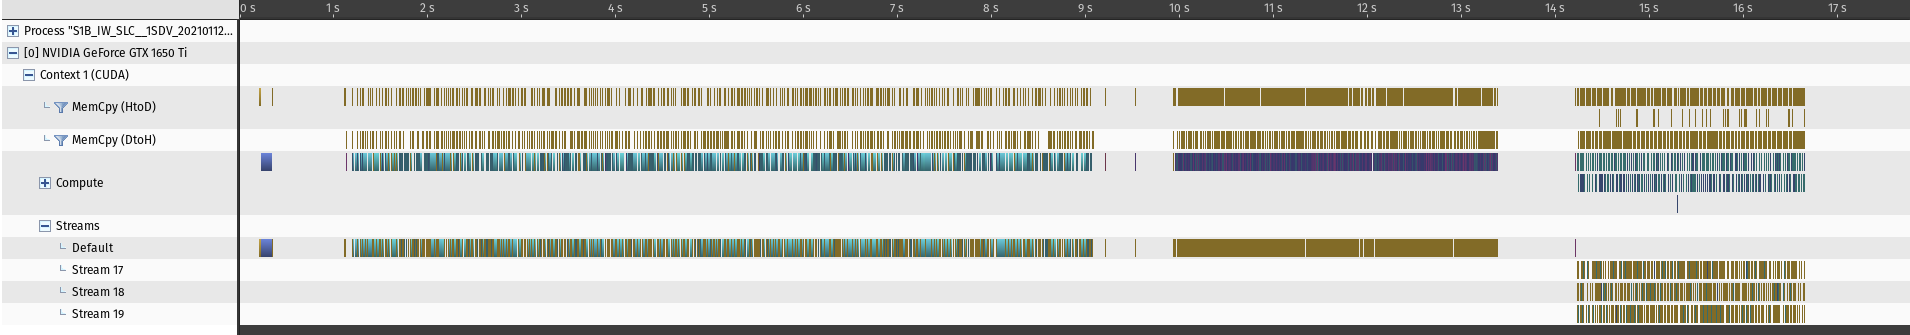
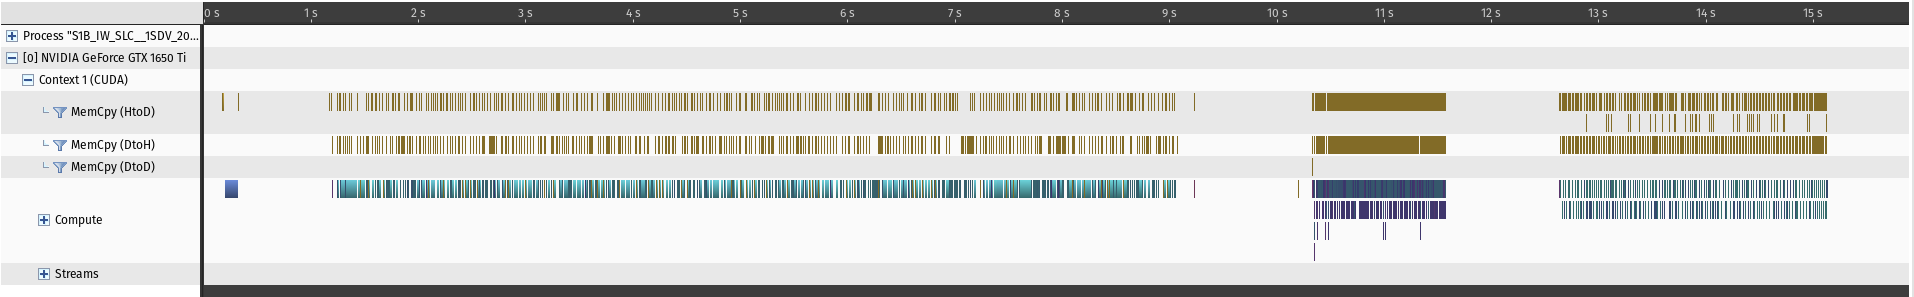
meow-55 Version 0.7 release
* Updated PERFORMANCE.md and coh_nvvp.png with latest development result
* Fix segfault on help message and/or fast argument error.

diff --git a/app/src/main.cc b/app/src/main.cc
@@ -45,10 +45,9 @@ void PrintHelp(const std::string& options_help) {
 
 int main(int argc, const char* argv[]) {
     std::string help_string{};
+    std::thread cuda_warmup;
     int alg_execute_status{};
     try {
-        std::thread cuda_warmup([](){cudaFree(nullptr);}); //init cuda with a cudaFree so others don't have to wait.
-        cuda_warmup.detach();
         alus::common::log::Initialize();
 #ifdef NDEBUG
         alus::common::log::SetLevel(alus::common::log::Level::INFO);
@@ -62,6 +61,9 @@ int main(int argc, const char* argv[]) {
             PrintHelp(help_string);
             return 0;
         }
+
+        // init cuda with a cudaFree so others don't have to wait.
+        cuda_warmup = std::thread([]() { cudaFree(nullptr); });
 
         const auto& alg_to_run = options.GetSelectedAlgorithm();
         LOGI << "Algorithm to run: " << alg_to_run;
@@ -81,7 +83,7 @@ int main(int argc, const char* argv[]) {
         const auto& merged_parameters =
             alus::app::AlgorithmParameters::MergeAndWarn(file_conf_parameters, command_line_parameters, warnings);
 
-        if(!warnings.empty()){
+        if (!warnings.empty()) {
             LOGW << warnings;
         }
         if (merged_parameters.count(alg_to_run)) {
@@ -116,18 +118,18 @@ int main(int argc, const char* argv[]) {
     } catch (const po::error& e) {
         LOGE << e.what();
         PrintHelp(help_string);
-        return 1;  // TODO: Create constants for exit codes.
-    } catch (const std::fstream::failure& e) {
-        LOGE << "Exception opening/reading file - " << e.what();
-        return 2;
+        alg_execute_status = 1;  // TODO: Create constants for exit codes.
+
     } catch (const std::exception& e) {
-        LOGE << "An exception was caught - " << e.what() << "Exciting";
-        return 3;
+        LOGE << "An exception was caught - " << e.what() << " - Exiting";
+        alg_execute_status = 2;
     } catch (...) {
         LOGE << "Exception of unknown type was caught."
              << "ERRNO:" << strerror(errno);
-        return 4;
+        alg_execute_status = 3;
     }
+
+    cuda_warmup.join();
 
     return alg_execute_status;
 }

diff --git a/README.md b/README.md
@@ -1,18 +1,34 @@
 # ALUS
 
-Acceleration Library Used for Sentinel.
+Collection of processing operators/routines defined by software - plural of ALU(Arithmetic Logic Unit)  
+or  
+ALU for Space/Surveillance etc.
 
-A software project that targets to utilize Nvidia GPUs for processing earth observation data (faster).
+A software project that targets to utilize Nvidia GPUs for processing earth observation data (faster).  
+Kickstart of this project was funded through [ESA's EOEP programme](http://www.esa.int/About_Us/Business_with_ESA/Business_Opportunities/Earth_Observation_Envelope_Programme)  
+Current development is funded through [ESA's GSTP programme](https://www.esa.int/Enabling_Support/Space_Engineering_Technology/Shaping_the_Future/About_the_General_Support_Technology_Programme_GSTP)
 
-Kickstart of this project was funded through ESA's EOEP programme - http://www.esa.int/About_Us/Business_with_ESA/Business_Opportunities/Earth_Observation_Envelope_Programme
-
-Developed by CGI Estonia.
+Developed by [CGI Estonia](https://www.cgi.com/ee/et).
 
 # Out of the box usage
 
-Latest build can be downloaded from - https://alus-builds.s3.eu-central-1.amazonaws.com/alus-nightly-latest.tar.gz
+Latest build can be downloaded from - https://alus-builds.s3.eu-central-1.amazonaws.com/alus-nightly-latest.tar.gz  
+Verified releases can be downloaded from - https://bitbucket.org/cgi-ee-space/alus/downloads/  
+One can download prepared image with all of the needed dependencies from [dockerhub](https://hub.docker.com/repository/docker/cgialus/alus-infra) 
 
-On dockerhub one can download prepared image with all of the needed dependencies from [dockerhub](https://hub.docker.com/repository/docker/cgialus/alus-infra) 
+## Executing
+
+Main executable with algorithm shared libraries(.so) are located at **<build_dir>/alus_package**
+
+Update **PATH** environment variable in order to execute it everywhere:  
+``export PATH=$PATH:<path/alus_package>``
+
+**OPTIONAL**(not needed on many OS flavors where RPATH is effective):  
+In order to load shared library components one should move to directory where binaries are located or  
+``LD_LIBRARY_PATH=$LD_LIBRARY_PATH:...<build_dir>/alus_package; export LD_LIBRARY_PATH``  
+or move/create symlinks to a location that is present in default ``LD_LIBRARY_PATH``.
+
+See ``--help`` and ``--alg_help`` for specific arguments/parameters how to invoke processing.
 
 
 ## Docker example
@@ -45,17 +61,7 @@ cd build
 make -j8
 ```
 
-# Executing
-
-Main executable with algorithm shared libraries(.so) is located at **<build_dir>/alus_package**.
-
-In order to load shared library components one should move to directory where binaries are located or
-
-``LD_LIBRARY_PATH=$LD_LIBRARY_PATH:...<build_dir>/alus_package; export LD_LIBRARY_PATH``
-
-or move/create symlinks to a location that is present in default ``LD_LIBRARY_PATH``.
-
-See ``--help`` and ``--alg_help`` for specific arguments/parameters how to invoke processing.
+# [Performance](PERFORMANCE.md)
 
 # [Performance](PERFORMANCE.md)
 
@@ -67,6 +73,6 @@ See ``--help`` and ``--alg_help`` for specific arguments/parameters how to invok
 
 [GNU GPLv3](LICENSE.txt)
 
-# Releases
+# [Releases](RELEASE.md)
 
-(https://alus-builds.s3.eu-central-1.amazonaws.com/release)[https://alus-builds.s3.eu-central-1.amazonaws.com/release]
+[Binary downloads](https://bitbucket.org/cgi-ee-space/alus/downloads/?tab=downloads)  

diff --git a/RELEASE.md b/RELEASE.md
@@ -1,6 +1,52 @@
+# Release 0.7.0
+
+[Pre release SNAP comparison](docs/SNAP_COMPARISON.md)
+
+## Breaking changes
+
+* Git LFS references removed
+  * Replaced by custom `.alus-lfs` script in the root of the repository along with `alusresources` file
+  * CI pipelines are now 2x and more faster
+
+## Known Caveats
+
+* ZIP files are not supported, any input datasets and auxiliary files must be extracted
+* Auxiliary files must be separately downloaded and supplied via CLI arguments
+
+## Major Features and Improvements
+
+* Improvements for calibration routine:
+  * Split arguments and operation supported and integrated, also support for burst index and AOI WKT polygon splitting
+  * SRTM3 DEM loading is asynchronous
+* Improvements for coherence routine:
+  * Support for split operation by burst index or AOI WKT polygon
+  * Performance optimizations for backgeocoding and coherence operations
+    * Sin and Cos computations with single CUDA API call for backgeocoding
+    * INT16 is integral type for raster data in backgeocoding now
+    * Pinned memory and streams utilisation for coherence operator
+    * Threading refactoring. Coregistration output now supports 4 datasets with 1 band or 1 dataset with 4 bands
+    * Compute extended amount no longer reallocates metadata for each call and uses atomics for index calculations
+
+## Bug Fixes and Other Changes
+
+* Backgeocoding operator
+  * Kernel block and grid parameters fixed which caused processing to fail on graphic cards with CC 7.5
+* Coherence operator
+  * Metadata mishandling caused wrong results for scenes with **near range on left**
+  * Different tile sizes altering results is fixed
+* Unnecessary shared libraries removed from release binary package
+* More nightly test validation scenes
+  * Also refactored the setup so that the scripts could be run on individual development environment
+* SNAP-ENGINE and Sentinel 1 toolbox port:
+  * relocated ported structures to separate folders in the root of the repo
+
+## Thanks to our Contributors
+
+
 # Release 0.6.0
 
-[Slides about the speed improvements and accuracy](docs/GPU-GSTP-27_08_2021.pdf)
+[Slides about the speed improvements and accuracy](docs/GPU-GSTP-27_08_2021.pdf)  
+[Version 0.6 binary](https://alus-builds.s3.eu-central-1.amazonaws.com/release/v0.6.0/alus-nightly-834-2021_09_14_1420.tar.gz)
 
 ## Breaking Changes
 

diff --git a/PERFORMANCE.md b/PERFORMANCE.md
@@ -6,7 +6,7 @@ Overall ALUS should always be faster than the equivalent SNAP algorithm.
 ## Example performance test
 
 Reference laptop computer details:  
-CPU: i7 10750h  
+CPU: i7 10750h, 16GB RAM
 GPU: GTX 1650Ti Mobile  
 SSD: M.2  
 
@@ -15,7 +15,7 @@ S1B_IW_SLC__1SDV_20210124T164217_20210124T164244_025299_03034D_690D
 S1B_IW_SLC__1SDV_20210112T164218_20210112T164245_025124_02FDBF_2399  
 
 Full swath(1.4GB SLC data) landmass only processing time:  
-Coherence estimation routine: 17.2s  
+Coherence estimation routine: 15.7s 
 Calibration routine: 5.8s  
 
 Coherence estimation routine means: 2 x input SLC coregistration(split + apply orbit file + backgeocoding) -> coherence estimation -> deburst -> range doppler terrain correction -> GTiff output  
